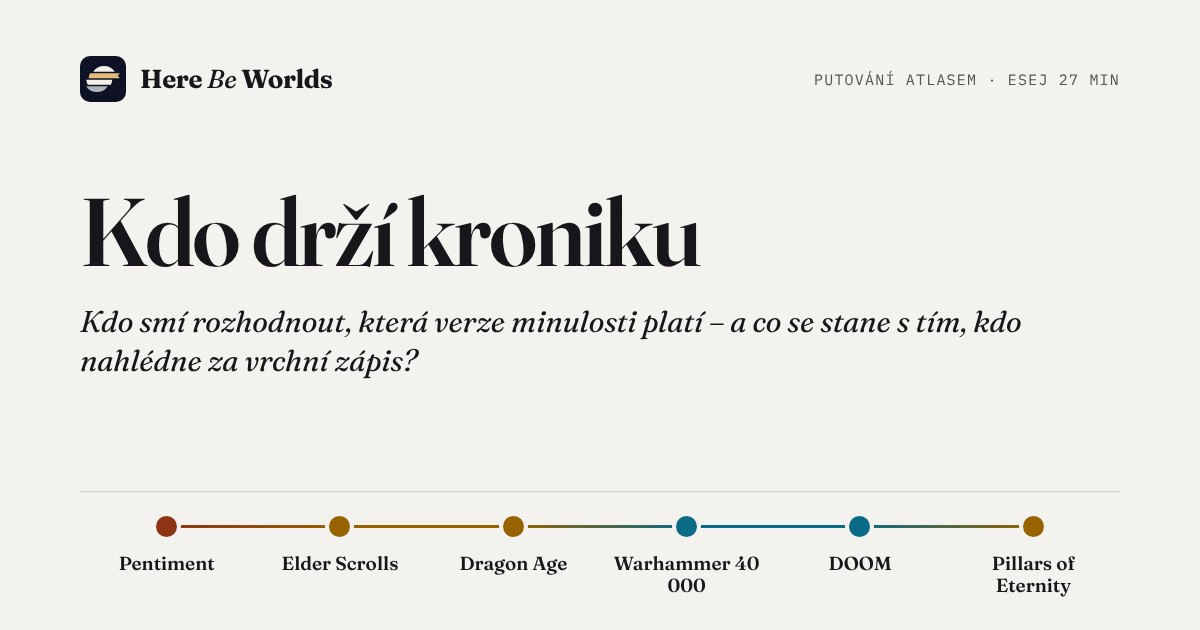
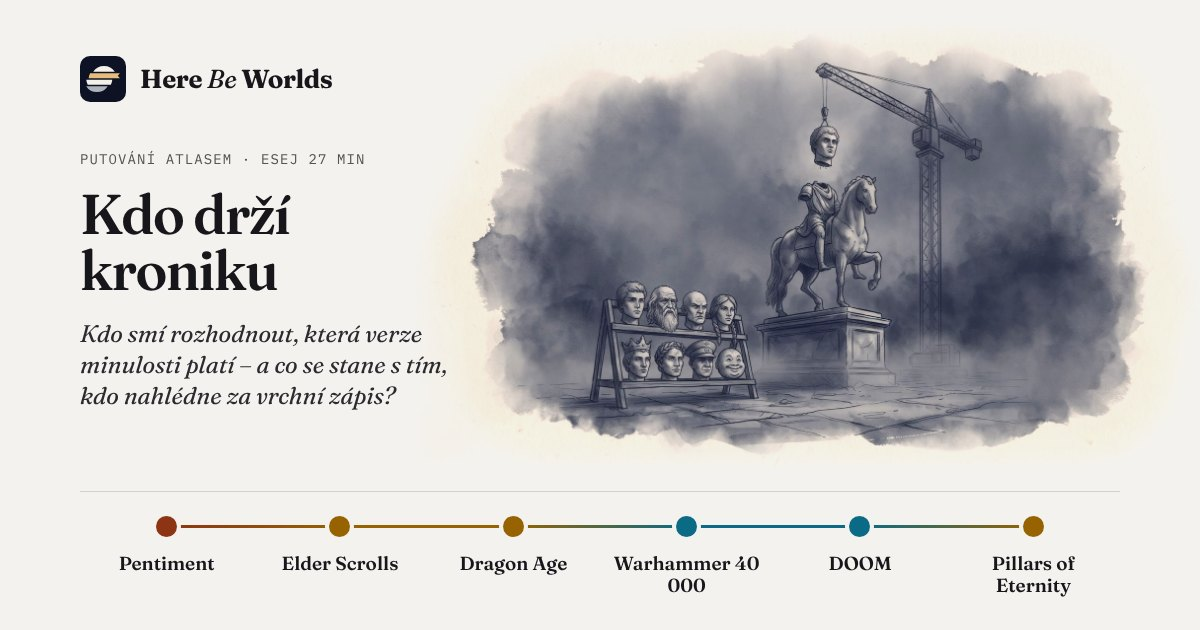
Obrázky k putování Kdo drží kroniku: socha s vyměnitelnou hlavou, stohy ze skartovaného papíru, psací stroj s papírovou cestou
Claude-Session: https://claude.ai/code/session_01B7obWLKHHEWxurZ5a1svnf

diff --git a/src/lib/trail-images.ts b/src/lib/trail-images.ts
@@ -28,6 +28,7 @@ export const READY: Record<TrailId, number> = {
   'failed-paradise': 3,
   corporate: 3,
   laughter: 3,
+  'chronicle-keepers': 3,
 };
 
 const DIR = 'putovani-obrazky';

diff --git a/docs/obrazky-putovani.md b/docs/obrazky-putovani.md
@@ -13,7 +13,7 @@ Stav 2026-11-23: styl nalezený po pěti kolech zkoušek (náhled `/putovani/nav
 - **Zadání pro motivy: odvaha, surrealismus, silná myšlenka (majitel 2026-11-26, po Logu nad troskami, „zdaleka nejlepší série“):** motivy střídat a nebát se odvážných, i absurdních nápadů, i když se špatně převádějí do obrázku. Surrealisticky, ne doslovně; obraz má mít rafinovanost a silnou myšlenku, klidně i složitější. Majiteli se líbí satira a ironie. Co fungovalo: obyčejný, všem známý předmět nebo stavba na špatném místě nebo z nepatřičné látky, takže z něj je paradox, který se čte na první pohled (parkovací automaty místo náhrobků, atomový hřib jako kancelářská budova s trávníkem, mraky na provázku s cenovkou), a jedna velká čitelná silueta. Nevyšlo: guma (vypadala jako pilulka, vygumovaná půlka zůstala nakreslená) a razítko (otisk jako položená fotka). Gemini nezvládá změnu jednoho obrazu ve druhý na ploše, zvládá předmět na nečekaném místě.
 - **Styl neujíždět (majitel 2026-11-26, u Smíchu nad propastí):** styl držet podle série Logo nad troskami. Ve scéně nejmenovat barvy ani materiály (ne „červený provaz“, „rezavý stůl“, „lesklé balonky“, „mosazný zvonek“): Gemini je bere doslova a přebijí monochromní tuš. Scéna dvě až tři věty, hlavní tvar a jeden detail, ne výčet předmětů; dlouhá scéna táhne kresbu k čisté komiksové ilustraci a mlha mizí. Pokaždé nový chat a vždy stejný vzor `25-styl-vicko.jpg`, nikdy nový obrázek jako vzor. Do Avoid patří „cartoon, comic-book style, glossy highlights, clean digital outlines“.
 - **Neopakovat se, nečekaný znepokojivý detail (majitel 2026-11-25, u Prokletého dědictví):** napříč putováními se začaly opakovat stejné rekvizity (klíčky, zrcadla, obrazy, botičky, stopy) a majitel to zamítl: „chce to přijít s něčím nečekaným, a o to víc znepokojivým, musí tam být nějaký nečekaný moment, detail“. Vzor: kolébka s korunou, jejíž stín na zdi je rakev. Postup: obyčejný předmět (domácí, dětský, rodinný), který na první pohled nic nenaznačuje, a jediný detail, který ho na druhý pohled převrátí. Před návrhem motivů projít seznam níže a nesáhnout po ničem, co v něm už je; když se rekvizita přece jen hodí, říct to majiteli předem. Témata smějí být temná a zlověstná, bez krve a násilí (v promptu `Avoid: … gore`; u temných putování Mood „ominous surrealism … heavy with dread“ místo „quiet“).
-- **Už použité rekvizity (doplňovat po každém putování):** klíče a klíčové dírky (klíč stočený do kruhu, měsíc jako klíčová dírka) · zrcadla (rukavice a zrcátko, zamlžené zrcadlo) · obrazy a rámy (stín, který vypadl z obrazu) · boty a stopy (stopy ve sněhu, prázdné boty u žebříku) · prázdné oděvy (plášť na trůnu, kabát ukazující cestu, rukavice) · žebra a kosti jako stavivo (katedrála ze žeber, jablko se žebry) · trůny (plášť na trůnu, trůn s břízou) · knihy, deníky a dopisy (postavička z knihy, můra z deníku, dopisy z hlavy sochy, hranice srolovaných dopisů) · hodiny (kavalerie z rozbitých hodin) · světla (lucerna, svíčka, oheň u gramofonu) · koště a brky (koště z brků) · kouř (sirka z kouře, beránek z kouře) · nábytek a pokoje (křesla za sklem, okno s pokojem na pláni, koberec nad jámou) · stín jako odhalení (stín klíče, stín z obrazu, stín chapadel u pulce, stín rakve u kolébky) · ostatní: městečko na jevišti s roztrženým nebem, vajíčko ve vajíčku, kamenné víčko, domy otáčející se za chodcem, most z dlažby, kořenů, copů a prádla, prapory z hejn ptáků, kolotoč z děl, žebřík opřený o nebe, gramofon s hvězdami, sklenice s pulcem, mince na hraně, řetěz s dětským poutem, šperkovnice s mléčnými zuby, koleje a výhybka (smyčka jako oko), obojek s vodítkem do mraků, trhací kalendář s prázdnými listy, hostina v dunách, schodiště zpět do země, zazděný oblouk s pěšinou kolem, atomový hřib jako budova, parkovací automaty jako náhrobky, mraky na provázku s cenovkami, banánová slupka nad propastí, ostnatý plot s girlandami a balonky, úsměv na zamlženém okénku (a kolébka v seznamu stínů). Zkoušené a zamítnuté u svobodné vůle: hrací skříňka s baletkou, kostka ve vzduchu, piliny s magnetem (třikrát nevyšlo), budka zatlučená zevnitř. U Ráje: hradby obrácené dovnitř (vyšel obyčejný hrad), maják na dně (vypadá jako zatopený katastrofou), ráj pod skleněným zvonem (vypadá jako sněžítko), fontána s pískem (písek vypadá jako voda), kryt s pentlí (dveře jako trezor z Falloutu). U Smíchu nad propastí: pochod natahovacích zubů a jednokolka na girlandě přes rokli (dobré, ale znovu skály a propast), čertík v krabičce (barevný), kartotéka s vesmírem (digitální jiskry), past s konfetami, plynová maska s úsměvem, socha v šaškovské čepici (komiks), přepážka v bouři (červený provaz), balonkový pes v pitevně (lesklý), hráz z gumových kachniček (výborná, záloha), roztržené šapitó, rakev s frkačkou (frkačka jako svitek), skákací hrad (věžičky jako rakety). U Loga nad troskami: guma (pilulka), razítko (otisk jako fotka), mravenčí farma s byty (doslovná, záloha). Poučení (majitel 2026-11-25): u celků musí být paradox hlavní tvar a číst se na první pohled; nic ze skutečného světa (Vítězný oblouk z Paříže zamítnut).
+- **Už použité rekvizity (doplňovat po každém putování):** klíče a klíčové dírky (klíč stočený do kruhu, měsíc jako klíčová dírka) · zrcadla (rukavice a zrcátko, zamlžené zrcadlo) · obrazy a rámy (stín, který vypadl z obrazu) · boty a stopy (stopy ve sněhu, prázdné boty u žebříku) · prázdné oděvy (plášť na trůnu, kabát ukazující cestu, rukavice) · žebra a kosti jako stavivo (katedrála ze žeber, jablko se žebry) · trůny (plášť na trůnu, trůn s břízou) · knihy, deníky a dopisy (postavička z knihy, můra z deníku, dopisy z hlavy sochy, hranice srolovaných dopisů) · hodiny (kavalerie z rozbitých hodin) · světla (lucerna, svíčka, oheň u gramofonu) · koště a brky (koště z brků) · kouř (sirka z kouře, beránek z kouře) · nábytek a pokoje (křesla za sklem, okno s pokojem na pláni, koberec nad jámou) · stín jako odhalení (stín klíče, stín z obrazu, stín chapadel u pulce, stín rakve u kolébky) · ostatní: městečko na jevišti s roztrženým nebem, vajíčko ve vajíčku, kamenné víčko, domy otáčející se za chodcem, most z dlažby, kořenů, copů a prádla, prapory z hejn ptáků, kolotoč z děl, žebřík opřený o nebe, gramofon s hvězdami, sklenice s pulcem, mince na hraně, řetěz s dětským poutem, šperkovnice s mléčnými zuby, koleje a výhybka (smyčka jako oko), obojek s vodítkem do mraků, trhací kalendář s prázdnými listy, hostina v dunách, schodiště zpět do země, zazděný oblouk s pěšinou kolem, atomový hřib jako budova, parkovací automaty jako náhrobky, mraky na provázku s cenovkami, banánová slupka nad propastí, ostnatý plot s girlandami a balonky, úsměv na zamlženém okénku, socha s vyměnitelnou hlavou, stohy ze skartovaného papíru, psací stroj s papírovou cestou (a kolébka v seznamu stínů). Zkoušené a zamítnuté u svobodné vůle: hrací skříňka s baletkou, kostka ve vzduchu, piliny s magnetem (třikrát nevyšlo), budka zatlučená zevnitř. U Ráje: hradby obrácené dovnitř (vyšel obyčejný hrad), maják na dně (vypadá jako zatopený katastrofou), ráj pod skleněným zvonem (vypadá jako sněžítko), fontána s pískem (písek vypadá jako voda), kryt s pentlí (dveře jako trezor z Falloutu). U Smíchu nad propastí: pochod natahovacích zubů a jednokolka na girlandě přes rokli (dobré, ale znovu skály a propast), čertík v krabičce (barevný), kartotéka s vesmírem (digitální jiskry), past s konfetami, plynová maska s úsměvem, socha v šaškovské čepici (komiks), přepážka v bouři (červený provaz), balonkový pes v pitevně (lesklý), hráz z gumových kachniček (výborná, záloha), roztržené šapitó, rakev s frkačkou (frkačka jako svitek), skákací hrad (věžičky jako rakety). U Kdo drží kroniku: mapa se skalpelem (kruhová díra), inkoust zpod archivu (teče z kopce, archiv nepoznat), archeologický řez pod slavností, pomník s vysekanou postavou, odloupnutá tapeta (jakoby na stropě), vykrajovátko na hrdiny (čistá ilustrace), pevnost z knih, puzzle s kladivem, brk nad bojištěm (silný, ale prázdný; verze s přilbami a vavřínem moc světlá). Styl ujížděl, když se do šablony přidal řádek navíc („loose sketch“): obraz zesvětlal; šablonu neměnit, jen řádek Scene. U Loga nad troskami: guma (pilulka), razítko (otisk jako fotka), mravenčí farma s byty (doslovná, záloha). Poučení (majitel 2026-11-25): u celků musí být paradox hlavní tvar a číst se na první pohled; nic ze skutečného světa (Vítězný oblouk z Paříže zamítnut).
 - **Světlo:** výchozí je **čistě modrá tuš bez zlaté**. Zlatá (#E5BE7E) jen výjimečně, když ji řádek scény výslovně jmenuje a je jádrem motivu (klíčová dírka na nebi, oheň u gramofonu). Gemini jinak zlatou přidává sám (okénka, lucerny), protože ji má vzorový obrázek: proto prompt výslovně zakazuje převzít lampu ze vzoru (majitel 2026-11-23: „pořád stejné rozsvícené okýnko a lucerna“).
 - **Motiv:** detail nebo polocelek, ne velká scéna. Obraz s druhým čtením: na první pohled obyčejný, na druhý nese otázku eseje. Prázdný prostor kolem.
 - **Nikdy:** text, písmena, podpisy, rámečky; postavy, loga a místa z her; náboženské symboly; lidé (nanejvýš drobná postava zezadu, když to motiv potřebuje); cákance tuše; airbrush; uhlazená digitální linka.
@@ -25,7 +25,7 @@ Stav 2026-11-23: styl nalezený po pěti kolech zkoušek (náhled `/putovani/nav
 - Masky: `maska/<slug>-N.png` podle tuše pro tmavý motiv (`python3 scripts/ink-masks.py`, pak zkopírovat z `navrh-obrazku/maska/`, nebo upravit cestu ve skriptu), `maska/freska.png` obecná.
 - Které putování obrázky má: `READY` v `src/lib/trail-images.ts`. Obrázky se ukážou jen u schválené eseje.
 - Rejstřík `/putovani/` má rozvržení karet ve dvou sloupcích s obrázkem nahoře (C, vybráno ze tří variant: A obraz za textem, B střídavé desky). Dokud nemají obrázky všechna putování, stojí vedle karty s obrázkem textové karty.
-- Na webu (2026-11-23): Hra ví, že ji hraješ (městečko na jevišti s roztrženým namalovaným nebem; postavička vylezlá z ilustrace v knize; stín, který vypadl z obrazu na podlahu); Na mrtvole boha (tři: prázdný plášť na trůnu držený provazy davu; trůn, kterým prorůstá bříza; jablko s žebry místo jádřince); Netvor v zrcadle (zatím jeden: stopy ve sněhu, které se z bot mění v tlapy); Mluví už jen mrtví (tři: prázdný kabát, který ukazuje cestu; můra s křídly z deníku; potopená hlava sochy, z níž stoupají listy dopisu k loďce); Uvězněni v kruhu (tři: klíč stočený do kruhu se stínem rovného klíče; vajíčko ve vajíčku; z kouře dohořelé sirky nová sirka); Bohové jako břemeno (katedrála ze žeber, kamenné víčko); Město, které dýchá (domy, které se otáčejí za chodcem; most z dlažby, kořenů, copů a prádla); Dům, ze kterého nejde odejít (měsíc jako zlatá klíčová dírka nad městečkem, okno uprostřed pláně s pokojem uvnitř). Válka, kterou nikdo nevyhraje (tři obrázky: prapory z hejn ptáků, kolotoč z děl, kavalerie z rozbitých hodin se svíčkou v temnu); Pod lhostejnými hvězdami (žebřík opřený o nebe s prázdnými botami a lucernou, gramofon, ze kterého se sypou hvězdy, u táboráku); Kdo za to může? (tři: prázdná rukavice ukazuje na zrcátko a odraz ukazuje zpět na diváka; koberec, pod jehož rohem je jáma se schody a koště z brků; z hranice srolovaných dopisů odplouvá kouř jako spící beránek, 2026-11-25); Kdo se to probudil? (tři: zamlžené zrcadlo nad umyvadlem, v jehož setřeném pruhu je další zrcadlo; dvě stejná křesla v pokoji rozděleném sklem, které prochází mincí na hraně; sklenice s pulcem, jehož stín na zdi jsou chapadla; 2026-11-25); Prokleté dědictví (tři: kolébka s korunou, jejíž stín je rakev, křížek na koruně vyretušovaný; řetěz z praskliny v zemi s otevřeným dětským poutem, hnědý nádech řetězu převedený do indiga; šperkovnice s náhrdelníkem z mléčných zubů; 2026-11-25); Křehká hranice svobodné vůle (tři: koleje shora, které se u výhybky rozdělí a zase spojí kolem kulatého jezírka, takže tvoří oko; prázdný obojek s vodítkem napnutým do mraků; trhací kalendář s prázdnými listy, jeden právě utržený, původně k jinému tématu, majitel ho přidal; 2026-11-25); Ráj, který se nepovedl (tři, poprvé celky místo předmětu, na pokyn majitele velký motiv a paradox: monumentální schodiště, které se v oblouku vrací zpátky do země (titulní, majitel 2026-11-26); nekonečně dlouhý prostřený stůl v poušti, zavátý dunou; vymyšlený zazděný oblouk se sluncem, kolem jehož boku je v dlažbě vyšlapaná pěšina; 2026-11-25); Logo nad troskami (tři, satira: atomový hřib ztuhlý v kancelářskou budovu s otáčecími dveřmi a ostříhaným trávníkem v troskách; hřbitov, kde místo náhrobků stojí parkovací automaty; opuštěný vozík prodavače mraků na provázcích s prázdnými cenovkami pod holým nebem; 2026-11-26); Smích nad propastí (tři: banánová slupka na samé hraně útesu nad propastí; ostnatý plot se strážní věží vyzdobený girlandami a balonky, jeden balonek splasklý na ostnu; prstem nakreslený úsměv na zamlženém okénku bunkru, ze kterého stéká kondenzace; 2026-11-26). Postup: 5 motivů, vybrat 2. **Motivy: surrealismus a neobvyklé kompozice, klidně velké měřítko a zachycený pohyb (Magritte, Dalí), neobvyklé spojení předmětů (v duchu Magritta), jen lehce doslovné** — první kolo s doslovnými motivy (tapeta, dveře, kolébka) majitel zamítl jako nenápadité. Do promptu řádek `Mood: subtle surrealism in the spirit of Magritte: one unexpected combination, quiet and uncanny, never literal or explanatory. Rich in discoverable detail: several unexpected secondary motifs are woven into the main forms, so the viewer keeps finding new things on a second look.` Po přidání prvního obrázku obnovit kartu pro sdílení: `npm run og -- <slug> putovani` (fonty a Chromium viz CLAUDE.md). Masky: `python3 scripts/ink-masks.py public/putovani-obrazky/<slug>-1.jpg …`; když je světlý papír uprostřed součástí motivu (mezera mezi konci mostu), přidej `--fill`. Skript dělá dvě masky: `<soubor>.png` pro tmavý motiv a širokou `<soubor>-light.png` pro světlý (papír tam schová multiply a lehké vybělení `brightness(1.06) saturate(0.8)`, maska nesmí zamlžit slabé tahy; majitel 2026-11-23). Ve světlém motivu se v eseji kresba ořezává jen širokou maskou (fresková by ořízla tahy štětce nahoře a stopy u spodního okraje); v tmavém motivu (esej i rejstřík) jen fresková maska: tvar je vždy **zvlněný obdélník do ztracena**, nikdy vykrojený podle skvrn tuše (majitel 2026-11-23). Zkoušený okraj podle tahů štětce se světlým lemem majitel zamítl jako „příliš“: v tmavém motivu okraje nebudou tak působivé jako ve světlém a je to tak správně; v rejstříku zůstává i fresková (obrázek je tam oříznutý na 3 : 2).
+- Na webu (2026-11-23): Hra ví, že ji hraješ (městečko na jevišti s roztrženým namalovaným nebem; postavička vylezlá z ilustrace v knize; stín, který vypadl z obrazu na podlahu); Na mrtvole boha (tři: prázdný plášť na trůnu držený provazy davu; trůn, kterým prorůstá bříza; jablko s žebry místo jádřince); Netvor v zrcadle (zatím jeden: stopy ve sněhu, které se z bot mění v tlapy); Mluví už jen mrtví (tři: prázdný kabát, který ukazuje cestu; můra s křídly z deníku; potopená hlava sochy, z níž stoupají listy dopisu k loďce); Uvězněni v kruhu (tři: klíč stočený do kruhu se stínem rovného klíče; vajíčko ve vajíčku; z kouře dohořelé sirky nová sirka); Bohové jako břemeno (katedrála ze žeber, kamenné víčko); Město, které dýchá (domy, které se otáčejí za chodcem; most z dlažby, kořenů, copů a prádla); Dům, ze kterého nejde odejít (měsíc jako zlatá klíčová dírka nad městečkem, okno uprostřed pláně s pokojem uvnitř). Válka, kterou nikdo nevyhraje (tři obrázky: prapory z hejn ptáků, kolotoč z děl, kavalerie z rozbitých hodin se svíčkou v temnu); Pod lhostejnými hvězdami (žebřík opřený o nebe s prázdnými botami a lucernou, gramofon, ze kterého se sypou hvězdy, u táboráku); Kdo za to může? (tři: prázdná rukavice ukazuje na zrcátko a odraz ukazuje zpět na diváka; koberec, pod jehož rohem je jáma se schody a koště z brků; z hranice srolovaných dopisů odplouvá kouř jako spící beránek, 2026-11-25); Kdo se to probudil? (tři: zamlžené zrcadlo nad umyvadlem, v jehož setřeném pruhu je další zrcadlo; dvě stejná křesla v pokoji rozděleném sklem, které prochází mincí na hraně; sklenice s pulcem, jehož stín na zdi jsou chapadla; 2026-11-25); Prokleté dědictví (tři: kolébka s korunou, jejíž stín je rakev, křížek na koruně vyretušovaný; řetěz z praskliny v zemi s otevřeným dětským poutem, hnědý nádech řetězu převedený do indiga; šperkovnice s náhrdelníkem z mléčných zubů; 2026-11-25); Křehká hranice svobodné vůle (tři: koleje shora, které se u výhybky rozdělí a zase spojí kolem kulatého jezírka, takže tvoří oko; prázdný obojek s vodítkem napnutým do mraků; trhací kalendář s prázdnými listy, jeden právě utržený, původně k jinému tématu, majitel ho přidal; 2026-11-25); Ráj, který se nepovedl (tři, poprvé celky místo předmětu, na pokyn majitele velký motiv a paradox: monumentální schodiště, které se v oblouku vrací zpátky do země (titulní, majitel 2026-11-26); nekonečně dlouhý prostřený stůl v poušti, zavátý dunou; vymyšlený zazděný oblouk se sluncem, kolem jehož boku je v dlažbě vyšlapaná pěšina; 2026-11-25); Logo nad troskami (tři, satira: atomový hřib ztuhlý v kancelářskou budovu s otáčecími dveřmi a ostříhaným trávníkem v troskách; hřbitov, kde místo náhrobků stojí parkovací automaty; opuštěný vozík prodavače mraků na provázcích s prázdnými cenovkami pod holým nebem; 2026-11-26); Smích nad propastí (tři: banánová slupka na samé hraně útesu nad propastí; ostnatý plot se strážní věží vyzdobený girlandami a balonky, jeden balonek splasklý na ostnu; prstem nakreslený úsměv na zamlženém okénku bunkru, ze kterého stéká kondenzace; 2026-11-26); Kdo drží kroniku (tři, satira dějin: jezdecká socha bez hlavy, jeřáb spouští novou hlavu a vedle stojí regál s osmi různými náhradními hlavami; stohy na poli ze skartovaného papíru a skartovačka; psací stroj, jehož papír plynule přechází v cestu krajinou, s ukazatelem ve směru papíru (ukazatel otočený a napojení papíru na cestu dorovnané ručně); 2026-11-26). Postup: 5 motivů, vybrat 2. **Motivy: surrealismus a neobvyklé kompozice, klidně velké měřítko a zachycený pohyb (Magritte, Dalí), neobvyklé spojení předmětů (v duchu Magritta), jen lehce doslovné** — první kolo s doslovnými motivy (tapeta, dveře, kolébka) majitel zamítl jako nenápadité. Do promptu řádek `Mood: subtle surrealism in the spirit of Magritte: one unexpected combination, quiet and uncanny, never literal or explanatory. Rich in discoverable detail: several unexpected secondary motifs are woven into the main forms, so the viewer keeps finding new things on a second look.` Po přidání prvního obrázku obnovit kartu pro sdílení: `npm run og -- <slug> putovani` (fonty a Chromium viz CLAUDE.md). Masky: `python3 scripts/ink-masks.py public/putovani-obrazky/<slug>-1.jpg …`; když je světlý papír uprostřed součástí motivu (mezera mezi konci mostu), přidej `--fill`. Skript dělá dvě masky: `<soubor>.png` pro tmavý motiv a širokou `<soubor>-light.png` pro světlý (papír tam schová multiply a lehké vybělení `brightness(1.06) saturate(0.8)`, maska nesmí zamlžit slabé tahy; majitel 2026-11-23). Ve světlém motivu se v eseji kresba ořezává jen širokou maskou (fresková by ořízla tahy štětce nahoře a stopy u spodního okraje); v tmavém motivu (esej i rejstřík) jen fresková maska: tvar je vždy **zvlněný obdélník do ztracena**, nikdy vykrojený podle skvrn tuše (majitel 2026-11-23). Zkoušený okraj podle tahů štětce se světlým lemem majitel zamítl jako „příliš“: v tmavém motivu okraje nebudou tak působivé jako ve světlém a je to tak správně; v rejstříku zůstává i fresková (obrázek je tam oříznutý na 3 : 2).
 
 ## Jak generovat
 

diff --git a/CLAUDE.md b/CLAUDE.md
@@ -83,7 +83,7 @@ Kroniky a eseje **nejsou** v `data/`.
 | `/notes/` | `src/pages/notes/index.astro` | `NotesPage` — obsah oddílů (lepí se pod hlavičku, oddíl, který čteš, je podtržený; na telefonu jeden řádek posuvný do strany, 2026-11-25), rejstříkový seznam pojmů (štítek vlevo, výklad vpravo), legenda 1–5 jako pruh os; oddíly Charakter světa · Profil světa · Triáda (tři pojmy s odkazy do Anatomie a do Galerie triád / Mapy neznáma, pod nimi typy hříchů, dilemata, druhy tajemství a kdo drží mezeru s ikonami – texty z `triad-types.json`, 2026-11-24 se souhlasem majitele) · Příbuznost světů (4 pilíře, 5 stupňů slovy, bez procent) · Kompas a ladění · Hlubina času (2026-11-25 s pokynem majitele: šest pojmů – sloupec a hladina, období her a rysky, dějiny a fundamentální události, odhad, mýtus a cyklus, stupnice, naše časová osa – a odkaz na stránku; `noteDeepTime*`) · Kánon (texty v `data/meta/notes.ts`) |
 | `/anatomie-herniho-lore/` | `src/pages/anatomie-herniho-lore/index.astro` | `EssayPage` (obsah `ReadingToc` vlevo, čtecí sloupec jako kronika, doba čtení pod podtitulem) |
 | `/teoreticke-zazemi/` | `src/pages/teoreticke-zazemi/index.astro` | `EssayPage` z `content/essays/teoreticke-zazemi.md`: prameny atlasu po oblastech (fikční světy, fantastika, herní studia, hrůza a posvátno, mýtus, paměť, osoba a identita, moc a dohled, dílna tvůrců), tabulka pojmů, výhrady k autorům, co by sem ještě patřilo, seznam literatury. Odkaz z Anatomie (oddíl Na čem metoda stojí) a z patičky. **Po zapracování nové knihy doplnit i sem.** |
-| `/putovani/` | `src/pages/putovani/index.astro` | `TrailsIndex` (`src/components/trails/`, styly `trails.css`): hlavička jako atlas, filtry **Svět** a **Téma** (rozsvítí stezky, kterými svět prochází / které se tématu dotýkají, ostatní ztlumí; `?svet=<id>`, `?tema=<slug>`; klik na téma v řádku dělá totéž, jméno světa v kartě vede rovnou na spis světa (majitel 2026-11-24)); rejstřík 22 stezek jako **karty ve dvou sloupcích** (rozvržení C, majitel 2026-11-23; karta: obrázek nahoře přes celou šířku karty do ztracena, 3 : 2, pak název, popis, světy s linkou v barvě archetypu nad každým jménem, témata eseje jako hranaté štítky na tónovaném podkladu (vybrané téma v akcentu) = `themes` v `trails.ts`, 2–4 na stezku, a za nimi „Esej · N min“; karta bez obrázku je jen text; na telefonu jeden sloupec); oddíl **Kde se stezky kříží** (mřížka stezky × všechny světy podle abecedy, i ty na jediné stezce, vpravo počet (majitel 2026-11-22), tečka v barvě archetypu, pod kurzorem se rozsvítí sloupec i řádek, názvy stezek nahoře i dole; na telefonu seznam dvanácti nejvíc křížených světů). V hlavičce webu odkaz Putování hned za Atlasem; Putování dne na titulní straně vedou na stránky putování. Staré adresy `/stezky/…` přesměrovávají (`src/pages/stezky/`, `RedirectPage.astro`). Obrázky k putováním (jediné místo na webu s obrázky): styl a postup `docs/obrazky-putovani.md`, soubory `public/putovani-obrazky/`, seznam `READY` v `src/lib/trail-images.ts`; náhled v rejstříku (`TrailsIndex images`) a v eseji pod úvodním citátem a uprostřed (`EssayPage hero/hero2/heroLive`), okraj do ztracena maskou. Zatím Bohové jako břemeno, Dům, ze kterého nejde odejít, Pod lhostejnými hvězdami, Válka, kterou nikdo nevyhraje, Město, které dýchá, Uvězněni v kruhu, Mluví už jen mrtví, Netvor v zrcadle, Na mrtvole boha, Hra ví, že ji hraješ, Kdo za to může?, Kdo se to probudil?, Prokleté dědictví, Křehká hranice svobodné vůle, Ráj, který se nepovedl, Logo nad troskami a Smích nad propastí. Zkušební náhled `/putovani/navrh-obrazku/` (noindex). |
+| `/putovani/` | `src/pages/putovani/index.astro` | `TrailsIndex` (`src/components/trails/`, styly `trails.css`): hlavička jako atlas, filtry **Svět** a **Téma** (rozsvítí stezky, kterými svět prochází / které se tématu dotýkají, ostatní ztlumí; `?svet=<id>`, `?tema=<slug>`; klik na téma v řádku dělá totéž, jméno světa v kartě vede rovnou na spis světa (majitel 2026-11-24)); rejstřík 22 stezek jako **karty ve dvou sloupcích** (rozvržení C, majitel 2026-11-23; karta: obrázek nahoře přes celou šířku karty do ztracena, 3 : 2, pak název, popis, světy s linkou v barvě archetypu nad každým jménem, témata eseje jako hranaté štítky na tónovaném podkladu (vybrané téma v akcentu) = `themes` v `trails.ts`, 2–4 na stezku, a za nimi „Esej · N min“; karta bez obrázku je jen text; na telefonu jeden sloupec); oddíl **Kde se stezky kříží** (mřížka stezky × všechny světy podle abecedy, i ty na jediné stezce, vpravo počet (majitel 2026-11-22), tečka v barvě archetypu, pod kurzorem se rozsvítí sloupec i řádek, názvy stezek nahoře i dole; na telefonu seznam dvanácti nejvíc křížených světů). V hlavičce webu odkaz Putování hned za Atlasem; Putování dne na titulní straně vedou na stránky putování. Staré adresy `/stezky/…` přesměrovávají (`src/pages/stezky/`, `RedirectPage.astro`). Obrázky k putováním (jediné místo na webu s obrázky): styl a postup `docs/obrazky-putovani.md`, soubory `public/putovani-obrazky/`, seznam `READY` v `src/lib/trail-images.ts`; náhled v rejstříku (`TrailsIndex images`) a v eseji pod úvodním citátem a uprostřed (`EssayPage hero/hero2/heroLive`), okraj do ztracena maskou. Zatím Bohové jako břemeno, Dům, ze kterého nejde odejít, Pod lhostejnými hvězdami, Válka, kterou nikdo nevyhraje, Město, které dýchá, Uvězněni v kruhu, Mluví už jen mrtví, Netvor v zrcadle, Na mrtvole boha, Hra ví, že ji hraješ, Kdo za to může?, Kdo se to probudil?, Prokleté dědictví, Křehká hranice svobodné vůle, Ráj, který se nepovedl, Logo nad troskami, Smích nad propastí a Kdo drží kroniku. Zkušební náhled `/putovani/navrh-obrazku/` (noindex). |
 | `/putovani/[id]/` | `src/pages/putovani/[id].astro` | Stránka každého putování, adresa = český slug z `TRAIL_SLUGS` (`trails.ts`), stejný jako soubor eseje v `content/trails/`. `EssayPage` s `trail`: pod hlavičkou `TrailCast` (světy) a `TrailThemes` (témata → `/putovani/?tema=`), před Zdroji `TrailWorlds` (souřadnice s výraznými názvy, seznam světů s archetypem a podžánrem). **Esej se ukáže jen s `approved: true` ve frontmatteru** (schvaluje majitel); jinak stránka ukáže rámeček „Esej připravujeme“, Světy putování a oddíl „Na čem putování stojí“ (jména pramenů z tabulky Prameny podle stezek v `docs/prameny/README.md`, `trailSources` v `src/lib/trail-pages.ts`). Neschválené eseje mají náhled `/putovani/navrh/<slug>/` (`noindex`, z webu na něj nic nevede). Schválené (2026-11-21): `na-mrtvole-boha`, `kdo-za-to-muze`, `kdo-se-to-probudil`, `netvor-v-zrcadle`, `mluvi-uz-jen-mrtvi`, `bohove-jako-bremeno`, `valka-kterou-nikdo-nevyhraje`, `proklete-dedictvi`, `krehka-hranice-svobodne-vule`, `uvezneni-v-kruhu`, `hra-vi-ze-ji-hrajes`, `raj-ktery-se-nepovedl`, `logo-nad-troskami`, `smich-nad-propasti`, `mesto-ktere-dycha`, `pod-lhostejnymi-hvezdami`, `kdo-drzi-kroniku`, `kopie-bez-originalu`, `dum-ze-ktereho-nejde-odejit`, `prace-ktera-nikdy-nekonci`, `jmeno-jako-klic-i-kletba`, `nakaza-s-vlastni-vuli` (všech 22). |
 | `/temata/` | `src/pages/temata/index.astro` | `ThemesIndex` (`src/components/themes/`, styly `themes.css`, 2026-11-24): pás hlavičky, řazení Podle abecedy / Podle počtu světů, rejstřík témat ve dvou sloupcích (název → stránka tématu, otázka kurzívou, otisk světů jako čtverečky v barvě archetypu, počet světů a putování) a **Kde se témata potkávají** (trojúhelníková mřížka téma × téma, kruh podle počtu světů s oběma tématy, prázdné šrafované, najetí rozsvítí řádek i sloupec a vypíše dvojici; na telefonu skrytá). |
 | `/temata/[slug]/` | `src/pages/temata/[slug].astro` | `ThemePage`, adresa = český název bez diakritiky (`themePageSlug` v `src/lib/themes.ts`). Hlavička v pásu: štítek „Téma“ (odkaz na rejstřík), název, otázka, „N světů · N archetypů · N putování“, vpravo **obloha z titulní strany v tuši** (`ThemeSky`; hvězdy na stejných místech díky `src/lib/sky.ts`, světy tématu rozsvícené v barvě archetypu a spojené přerušovanou nejkratší trasou, ostatní tlumeně; najetí na hvězdu ukáže jméno). Oddíly: **Světy** (záznamy ve třech sloupcích: linka v barvě archetypu, název, archetyp · podžánr, jádro kurzívou; najetí rozsvítí hvězdu) · **Podoba tématu** (Archetypy: řádek na archetyp, čtverečky = všechny jeho světy, plné = s tématem; Souřadnice: `AxisRange` s prázdným kosočtvercem průměru celého atlasu `reference`) · **Putování** (putování s tématem v `trails.ts` `themes`, první obrázek přes masku, otázka eseje, trasa světů, světy tématu tučně) · **Potkává se s** (šest témat nejčastěji ve stejných světech, `neighbourThemes`; není to příbuznost světů) · odkazy Otevřít v atlasu · Všechna témata. Podklady skládá při sestavení `src/lib/theme-pages.ts`. Odkazy na stránky témat: hledání (lupa), atlas (Další pohledy a „O tématu …“ pod počtem výsledků při filtru tématu), patička. Témata na kartě světa vedou na stránky témat (majitel 2026-11-24). |
